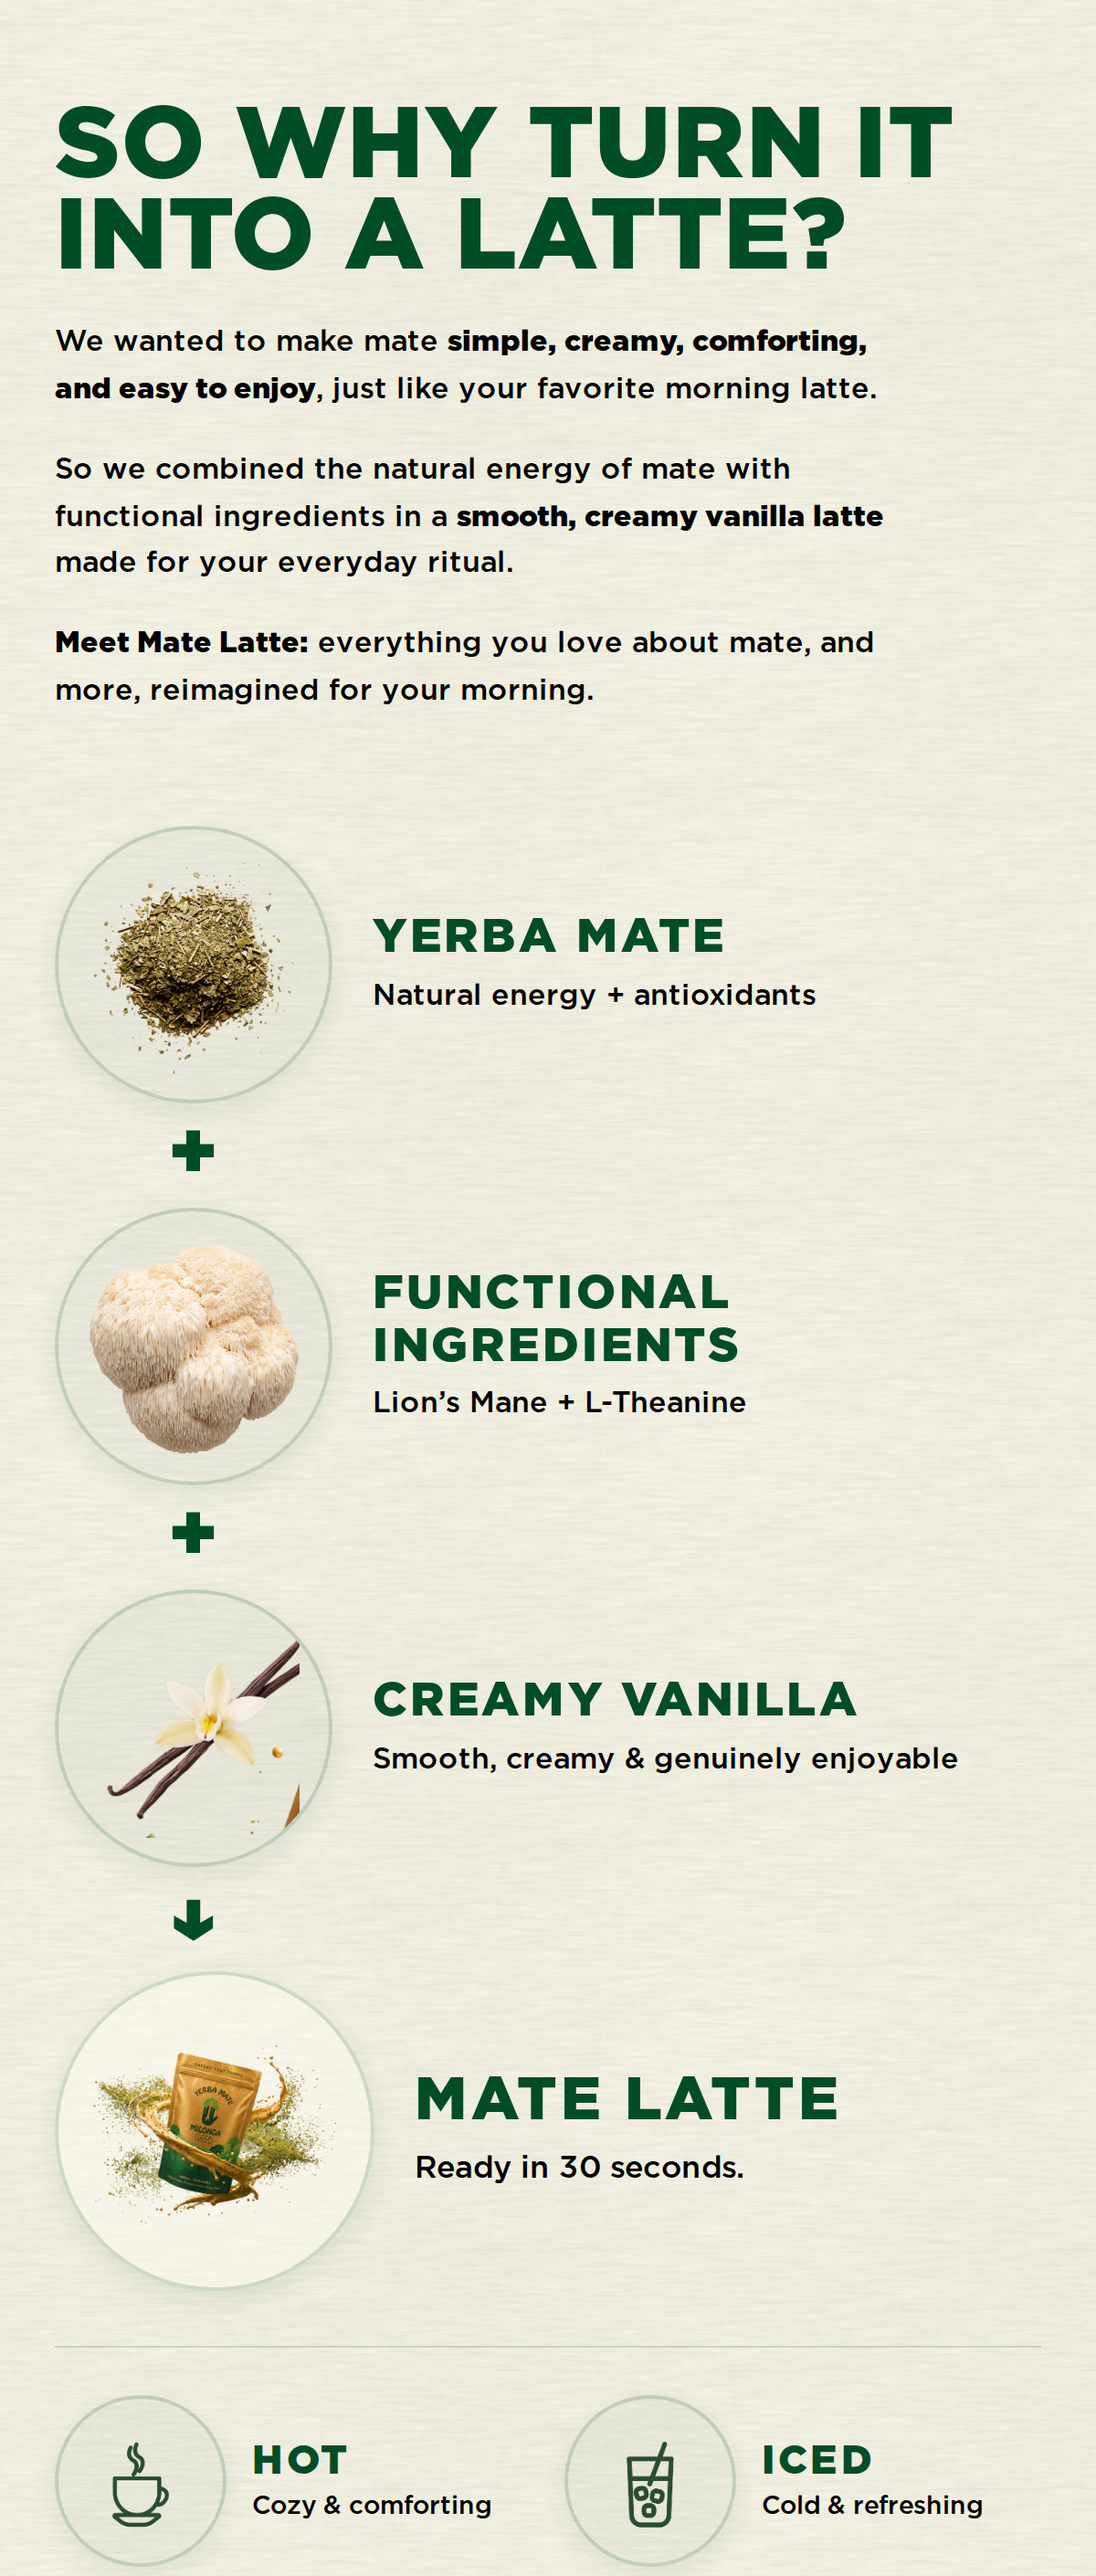
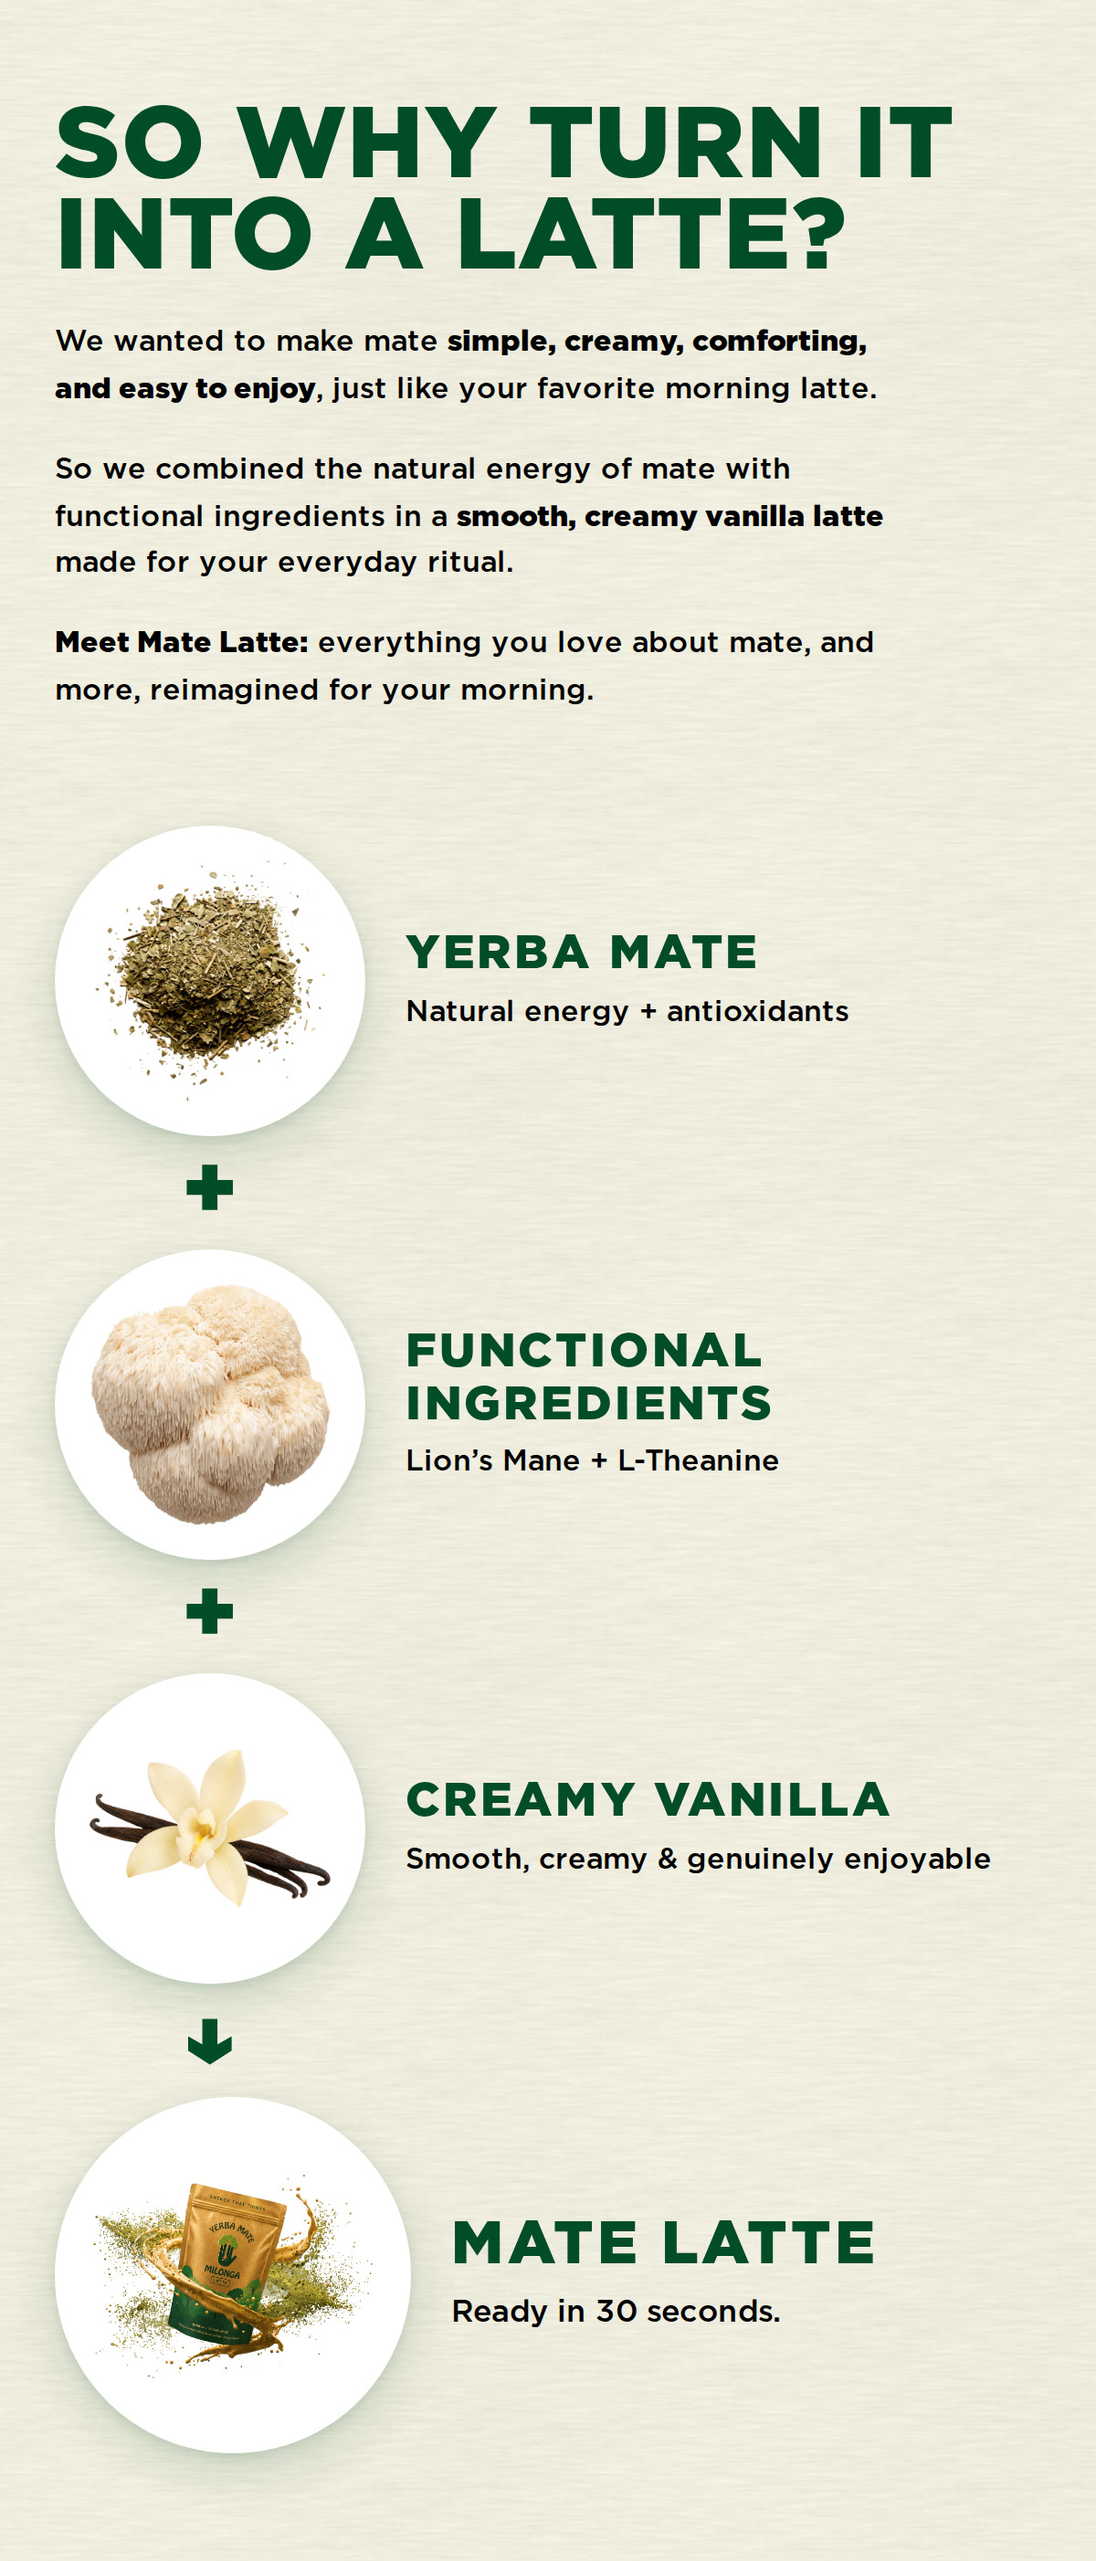
White discs, new vanilla art, serve row removed
The supplied vanilla shot replaces the crop from the botanical pouch. Trimmed
on its alpha rather than flattened first, so it stays a cutout and still works
on any disc colour; trimming also removes the transparent margin the file
carried, which was making the flower float small inside its circle.

Discs go white with a real shadow, and up from 152 to 170. On a beige ground a
panel-tinted disc is almost the ground itself, so the pictures read as stains
on it — a white disc lit from above reads as an object sitting on the page. The
border comes off with it: a white disc already has an edge against beige, and a
rule on top of a shadow gives it two, which reads as a sticker.

`padBottom` is new and needed here. `pad` was 4 because the paragraph band
above already ends in 56px of its own, but with the serve row gone the result
disc became the last thing in the section and sat 4px off the foot.

Claude-Session: https://claude.ai/code/session_01NhEtXPnfeCJfN73SqBkUZ5

diff --git a/email-ds/src/components/HeroTemplates.tsx b/email-ds/src/components/HeroTemplates.tsx
@@ -1505,10 +1505,16 @@ export interface T11Props {
   /** Diameter of a term's disc. The result's is 15% larger. */
   circle?: number;
   labelSize?: number;
+  /** Vertical padding. `padBottom` defaults to it when the foot needs more. */
   pad?: number;
+  padBottom?: number;
   padX?: number;
   /** Lay the brand's paper grain over the flat ground. */
   textured?: boolean;
+  /** Fill behind each picture. White lifts a cutout off a beige ground. */
+  discFill?: string;
+  /** Shadow under each disc. Defaults to the ground's stronger depth token. */
+  discShadow?: string;
 }
 
 function Disc({
@@ -1516,11 +1522,13 @@ function Disc({
   size,
   bg,
   fill,
+  shadow,
 }: {
   term: EquationTerm;
   size: number;
   bg: EmailBg;
   fill?: string;
+  shadow?: string;
 }) {
   const t = onBg[bg];
   return (
@@ -1531,11 +1539,10 @@ function Disc({
         flex: `0 0 ${size}px`,
         borderRadius: '50%',
         overflow: 'hidden',
-        background: fill ?? t.panel,
-        border: `2px solid ${t.rule}`,
-        // Lifted, so the column of pictures reads as objects on the page
-        // rather than as holes cut in it.
-        boxShadow: t.shadow,
+        background: fill ?? colors.white,
+        // No border. A white disc on a beige ground already has an edge; a
+        // rule on top of the shadow gives it two, and reads as a sticker.
+        boxShadow: shadow ?? t.shadowLg,
         textAlign: 'center',
         lineHeight: `${size - 4}px`,
       }}
@@ -1565,8 +1572,11 @@ export function T11Equation({
   circle = 96,
   labelSize = 19,
   pad = 52,
+  padBottom,
   padX = 34,
   textured = false,
+  discFill,
+  discShadow,
 }: T11Props) {
   const t = onBg[bg];
   const GAP = 22;
@@ -1576,7 +1586,7 @@ export function T11Equation({
 
   const Row = ({ term, size, big }: { term: EquationTerm; size: number; big?: boolean }) => (
     <div style={{ display: 'flex', alignItems: 'center', gap: GAP }}>
-      <Disc term={term} size={size} bg={bg} fill={big ? t.elevated : undefined} />
+      <Disc term={term} size={size} bg={bg} fill={discFill} shadow={discShadow} />
       <div style={{ flex: '1 1 auto', minWidth: 0 }}>
         <div style={{ ...caps(big ? labelSize + 7 : labelSize, '0.06em', t.title), lineHeight: 1.12 }}>{term.label}</div>
         {term.note ? (
@@ -1617,7 +1627,7 @@ export function T11Equation({
   );
 
   return (
-    <div style={{ padding: `${pad}px ${padX}px`, ...bgStyle(bg, bgFill[bg], textured) }}>
+    <div style={{ padding: `${pad}px ${padX}px ${padBottom ?? pad}px`, ...bgStyle(bg, bgFill[bg], textured) }}>
       {eyebrow ? <div style={{ ...caps(12, '0.2em', t.accent), marginBottom: 22 }}>{eyebrow}</div> : null}
 
       {/* The operators scale with the discs — a 30px plus between 152px
@@ -1639,7 +1649,7 @@ export function T11Equation({
           <div style={{ display: 'flex', gap: 18 }}>
             {serves.map((s, i) => (
               <div key={i} style={{ flex: '1 1 0', display: 'flex', alignItems: 'center', gap: 14, minWidth: 0 }}>
-                <Disc term={s} size={Math.round(circle * 0.62)} bg={bg} />
+                <Disc term={s} size={Math.round(circle * 0.62)} bg={bg} fill={discFill} shadow={discShadow} />
                 <div style={{ minWidth: 0 }}>
                   <div style={{ ...caps(labelSize - 4, '0.08em', t.title), lineHeight: 1.1 }}>{s.label}</div>
                   {s.note ? (

diff --git a/email-ds/emails/mate-latte-why.jsx b/email-ds/emails/mate-latte-why.jsx
@@ -104,9 +104,8 @@ function MateLatteWhy() {
 
     // ── 3 · THE EQUATION ──────────────────────────────────────────────────
     // Pictures down the left, the terms beside them, operators on the discs'
-    // own centre line. Two of the discs are placeholders carrying their emoji
-    // at full size — the rows hold their exact height, so dropping the real
-    // photographs in later moves nothing else.
+    // own centre line. Every disc now carries real art, so the emoji fields
+    // are only a fallback if a file ever goes missing.
     h(M.T11Equation, {
       bg: 'beige',
       terms: [
@@ -125,20 +124,19 @@ function MateLatteWhy() {
         alt: 'The Milonga Mate Latte pouch',
         label: 'Mate Latte', note: 'Ready in 30 seconds.',
       },
-      serves: [
-        // The brand's own line icons, not emoji. A photograph of a drink does
-        // not survive a 94px disc — the iced cutout was tried and resolved to
-        // a smudge — but a line drawing is legible at any size by design.
-        { src: '../public/brand/icons/hot-forest.png', alt: 'A hot cup',
-          label: 'Hot', note: 'Cozy & comforting' },
-        { src: '../public/brand/icons/iced-forest.png', alt: 'An iced glass',
-          label: 'Iced', note: 'Cold & refreshing' },
-      ],
-      circle: 152,
+      circle: 170,
       labelSize: 26,
+      // Tight at the top, because the paragraph band above already ends in
+      // 56px of its own; generous at the foot, which the serve row used to
+      // provide and no longer does.
       pad: 4,
+      padBottom: 58,
       padX: 30,
       textured: true,
+      // White discs with a real shadow. On a beige ground a panel-tinted disc
+      // is almost the ground itself, so the pictures read as stains on it; a
+      // white disc that is clearly lit from above reads as an object.
+      discShadow: '0 10px 26px rgba(0,77,39,0.16), 0 2px 6px rgba(0,77,39,0.10)',
     })
   );
 }
